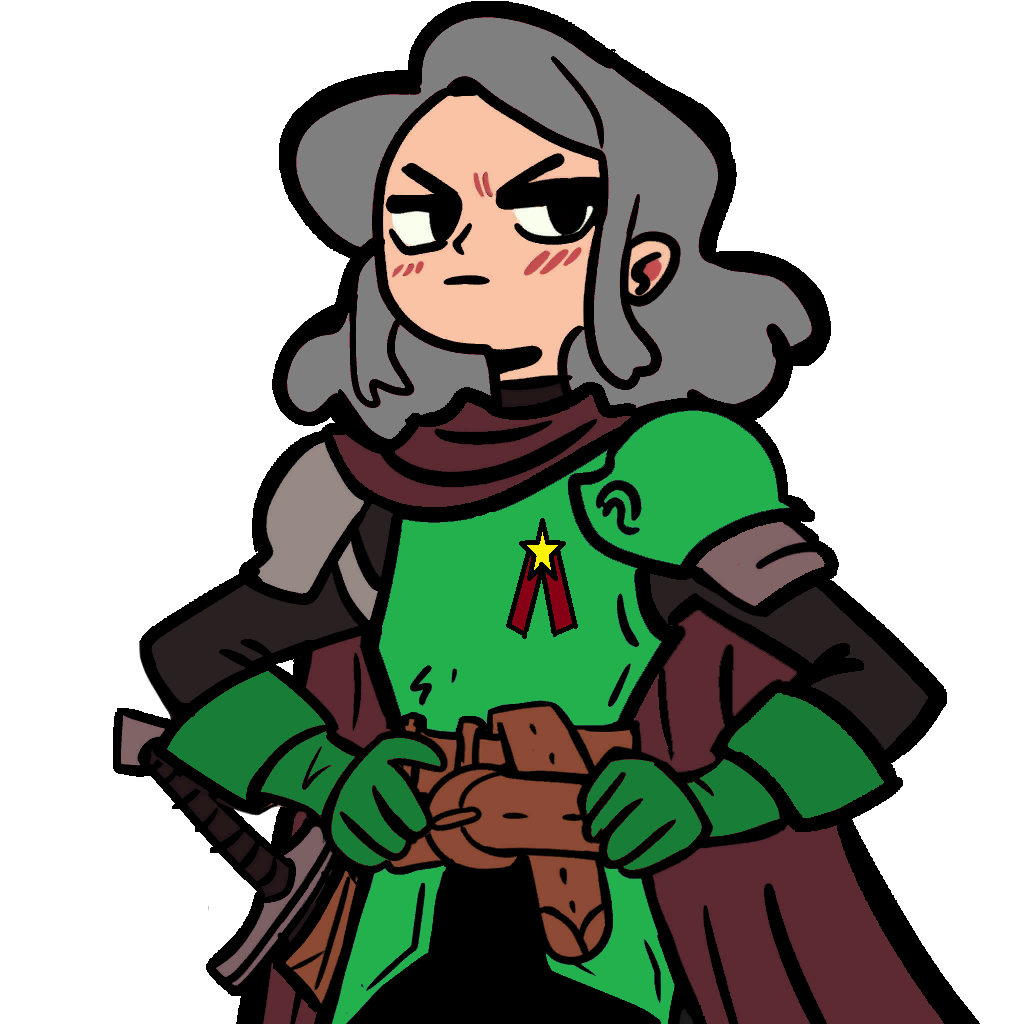
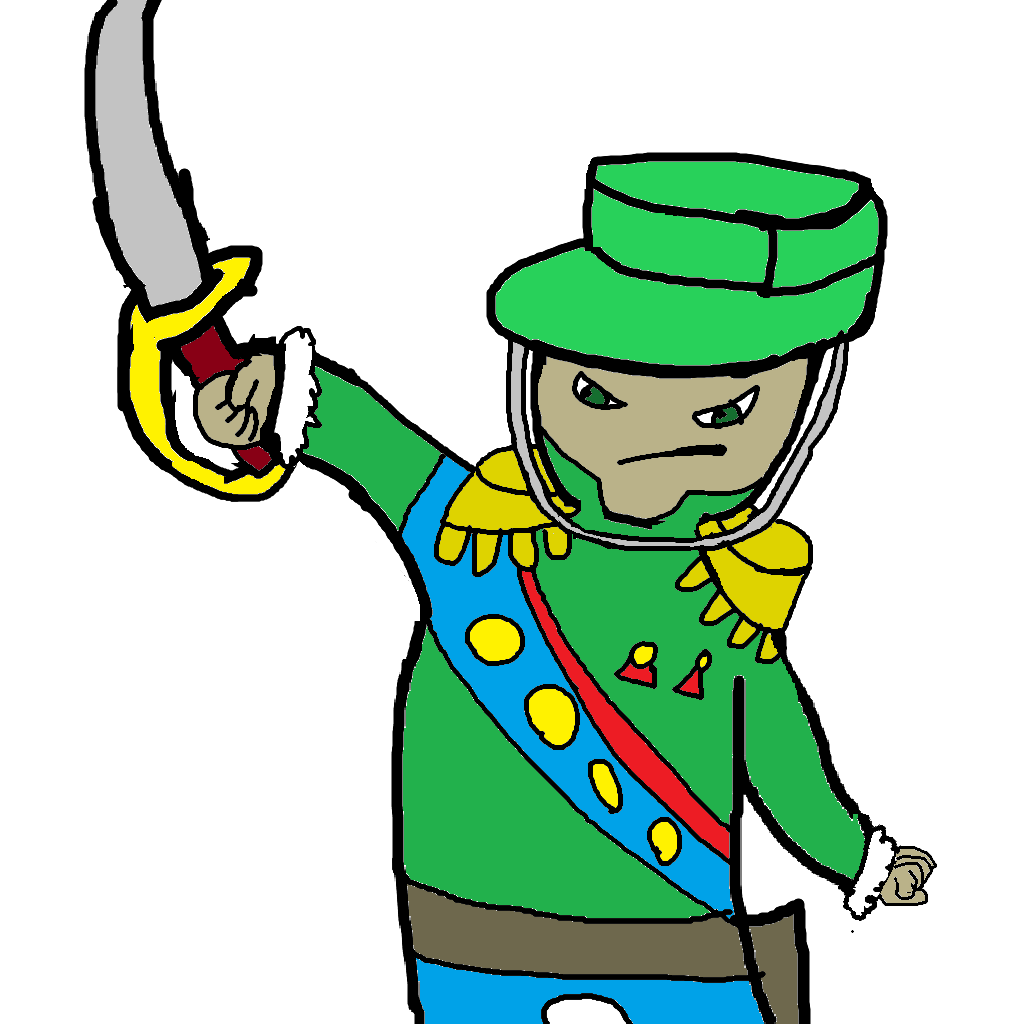
1.10.2

diff --git a/Demon Bluff Mods/Main.cs b/Demon Bluff Mods/Main.cs
@@ -662,7 +662,7 @@ public class Main : MelonMod
         parent.characterName = "Parent";
         parent.description = $"Learn what role my child is. I am unbluffable. I turn Evil if my child is Evil.";
         parent.flavorText = "\"Will do anything to protect their kid. \n Even if it means destroying the world.\"";
-        parent.hints = "";
+        parent.hints = "If I am evil, I might call my child the wrong gender.";
         parent.ifLies = "If I can, learn what bluff my child is.";
         parent.notes = "";
         parent.picking = false;
@@ -983,10 +983,10 @@ public class Main : MelonMod
         vanished.role = new Vanished();
         vanished.name = "Vanished";
         vanished.characterName = "Vanished";
-        vanished.description = $"I cast {formattedKeyText("Unknown Obstacle")} on myself.\n I silence my closest Evil neighbor.";
+        vanished.description = $"I cast {formattedKeyText("Obscure")} on myself.\n I silence my closest Evil neighbor.";
         vanished.flavorText = "\"Out of sight, out of mind is his motto.\"";
         vanished.hints = $"";
-        vanished.ifLies = $"I still cast {formattedKeyText("Unknown Obstacle")}.\n I instead silence my closest Good neighbor.";
+        vanished.ifLies = $"I still cast {formattedKeyText("Obscure")}.\n I instead silence my closest Good neighbor.";
         vanished.notes = "";
         vanished.picking = false;
         vanished.startingAlignment = EAlignment.Good;
@@ -1543,7 +1543,7 @@ public class Main : MelonMod
         star.role = new Starspawn();
         star.name = "Starspawn";
         star.characterName = "Starspawn";
-        star.description = $"3 cards at random have {formattedKeyText("Unknown Obstacle")}. \nI lie and disguise. \n <b>When Executed</b>: \nAll cards with {formattedKeyText("Unknown Obstacle")} become revealable.";
+        star.description = $"3 cards at random have {formattedKeyText("Obscure")}. \nI lie and disguise. \n <b>When Executed</b>: \nAll cards with {formattedKeyText("Obscure")} become revealable.";
         star.flavorText = "\"The being of above calls for endless night.\"";
         star.hints = "";
         star.ifLies = "";
@@ -1759,7 +1759,7 @@ public class Main : MelonMod
         enforcer.role = new Enforcer();
         enforcer.name = "Enforcer";
         enforcer.characterName = "Enforcer";
-        enforcer.description = $"<b>Game Start</b>:\nI cast {formattedKeyText("Unknown Obstacle")} on a random card.";
+        enforcer.description = $"<b>Game Start</b>:\nI cast {formattedKeyText("Obscure")} on a random card.";
         enforcer.flavorText = "\"The Bishop? Ah that guy? \n Don't try it. She won't talk.\"";
         enforcer.hints = customHint("Alignment Hint", "Mafia Member"); ;
         enforcer.ifLies = "";
@@ -2061,7 +2061,7 @@ public class Main : MelonMod
         pm.role = new PotionMaster();
         pm.name = "Brewer";
         pm.characterName = "Brewer";
-        pm.description = $"<b>Game Start</b>:\nOne card has a random status between Corrupted, {formattedKeyText("Unknown Obstacle")} and being {formattedKeyText("Mad")}.\nI lie and disguise.";
+        pm.description = $"<b>Game Start</b>:\nOne card has a random status between Corrupted, {formattedKeyText("Obscured")} and being {formattedKeyText("Mad")}.\nI lie and disguise.";
         pm.flavorText = "\"Like to mix and match ingredients. \n Results tend to favor the explosive kind.\"";
         pm.hints = customHint("Alignment Hint", "Covenant Follower");
         pm.ifLies = "";
@@ -3144,8 +3144,8 @@ public class Main : MelonMod
             case "Hexed": return "<color=#7E3A94>Hexed</color>";
             case "Starve": return "<color=#C20A0A>Starve</color>";
             case "Starved": return "<color=#C20A0A>Starved</color>";
-            case "UO": return "<color=#33327A>UO</color>";
-            case "Unknown Obstacle": return "<color=#33327A>Unknown Obstacle</color>";
+            case "Obscure": return "<color=#33327A>Obscure</color>";
+            case "Obscured": return "<color=#33327A>Obscured</color>";
             //Same as Wingidon
             case "Honest": return "<color=#7AC6FF>Honest</color>";
             case "Pure": return "<color=#7AFBFF>Pure</color>";

diff --git a/Demon Bluff Mods/God.cs b/Demon Bluff Mods/God.cs
@@ -52,6 +52,7 @@ namespace Demon_Bluff_Mods
         }
         public Il2CppSystem.Collections.Generic.List<CharacterData> GetAllData()
         {
+            MelonLogger.Msg("Getting the Datas");
             CharacterData[] allDatas = Il2CppSystem.Array.Empty<CharacterData>();
             Il2CppSystem.Collections.Generic.List<CharacterData> trueAllDatas = new();
             var loadedCharList = Resources.FindObjectsOfTypeAll(Il2CppType.Of<CharacterData>());
@@ -63,17 +64,31 @@ namespace Demon_Bluff_Mods
                     allDatas[j] = loadedCharList[j]!.Cast<CharacterData>();
                 }
             }
+            MelonLogger.Msg("Transfering the Datas");
             bool checkForPowerplay = false;
             bool checkForWing = false;
             bool checkForRiddler = false;
             for (int j = 0; j < allDatas.Length; j++)
             {
-                trueAllDatas.Add(allDatas[j]);
+                if(allDatas[j] != null)
+                    trueAllDatas.Add(allDatas[j]);
                 
             }
-           foreach(CharacterData data in trueAllDatas)
+            MelonLogger.Msg("Checking for other mods");
+            foreach (CharacterData data in trueAllDatas)
             {
-                if(data.characterId.EndsWith("_POW") && !checkForPowerplay)
+                if (data == null)
+                {
+                    MelonLogger.Warning("GetAllData: Found null CharacterData!");
+                    continue;
+                }
+
+                if (data.characterId == null)
+                {
+                    MelonLogger.Warning("GetAllData: CharacterData has null characterId!");
+                    continue;
+                }
+                if (data.characterId.EndsWith("_POW") && !checkForPowerplay)
                 {
                     checkForPowerplay = true;
                     MelonLogger.Msg("Powerplay is accounted for");
@@ -116,7 +131,7 @@ namespace Demon_Bluff_Mods
                 blacklistMinionIDs.Add("Trickster_o_scm"); // Should never be added
                 foreach (CharacterData d in allDatas)
             {
-                    if ((d.type == ECharacterType.Demon) && (d.role is not Mutant || d.role is not Delusion || d.role is not God))
+                    if ((d.type == ECharacterType.Demon) && (d.role is not Mutant && d.role is not Delusion && d.role is not God))
                     {
                         possibleDemons.Add(d);
                     }
@@ -188,9 +203,10 @@ namespace Demon_Bluff_Mods
                     MelonLogger.Msg($"{possibleVillagers.Count} villagers remaining");
                     list1.Remove(random);
                     count++;
+                    MelonLogger.Msg($"{nOfVillagers-count} villager spots remaining");
 
-                } while (count < nOfVillagers);
-                
+                } while (count < list1.Count);
+                 list1 = new();
                 foreach (Character c in currentChars)
                 {
                     list1.Add(c);

diff --git a/Demon Bluff Mods/ToolTips.cs b/Demon Bluff Mods/ToolTips.cs
@@ -124,18 +124,18 @@ namespace Demon_Bluff_Mods;
                             "<link=\"Starved\"><color=#C20A0A>Starved</color></link>"
                         );
                     }
-                    if (value.Contains("UO"))
+                    if (value.Contains("Obscure"))
                     {
                         value = value.Replace(
                             "UO",
-                            "<link=\"UO\"><color=#33327A>UO</color></link>"
+                            "<link=\"UO\"><color=#33327A>Obscure</color></link>"
                         );
                     }
-                    if (value.Contains("Unknown Obstacle"))
+                    if (value.Contains("Obscured"))
                     {
                         value = value.Replace(
                             "Unknown Obstacle",
-                            "<link=\"Unknown Obstacle\"><color=#33327A>Unknown Obstacle</color></link>"
+                            "<link=\"Unknown Obstacle\"><color=#33327A>Obscured</color></link>"
                         );
                     }
                     if (value.Contains("Badly Poison"))
@@ -262,11 +262,11 @@ namespace Demon_Bluff_Mods;
                         new Color32(194, 10, 10, 255)
                     );
                 }
-                if (linkID =="UO" || linkID =="Unknown Obstacle")
+                if (linkID == "Obscure" || linkID == "Obscured")
                 {
                     __result = new TooltipInfo(
-                        "Unknown Obstacle prevents interacting with a card.",
-                        "Unknown Obstacle",
+                        "Obscure prevents interacting with a card.",
+                        "Obscured",
                         new Color32(51, 50, 122, 255)
                     );
                 }

diff --git a/Demon Bluff Mods/Deputy.cs b/Demon Bluff Mods/Deputy.cs
@@ -75,6 +75,7 @@ public class Deputy : Role
                 else
                 {
                     line = $"There are no evils to shoot!";
+                    list2.Add(charRef);
                 }
                 
                 onActed?.Invoke(new ActedInfo(line, list2));
@@ -93,10 +94,19 @@ public class Deputy : Role
             list1 = Characters.Instance.FilterRealCharacterType(list1, ECharacterType.Minion);
             Il2CppSystem.Collections.Generic.List<Character> list2 = new();
             string line;
+            if(list1.Count == 0)
+            {
+                line = $"There are no evils to shoot!";
+                list2.Add(charRef);
+            }
+            else
+            {
                 int randomIndex = UnityEngine.Random.Range(0, list1.Count);
                 Character random = list1[randomIndex];
                  line = $"I shot #{random.id}, but the bullet missed!";
-            list2.Add(random) ;
+                  list2.Add(random) ;
+            }
+                
             onActed?.Invoke(new ActedInfo(line, list2));
 
         }

diff --git a/Demon Bluff Mods/Butcher.cs b/Demon Bluff Mods/Butcher.cs
@@ -30,29 +30,6 @@ namespace Demon_Bluff_Mods
            
           
         }
-        public override CharacterData GetBluffIfAble(Character charRef)
-        {
-            CharacterData[] allDatas = Il2CppSystem.Array.Empty<CharacterData>();
-            var loadedCharList = Resources.FindObjectsOfTypeAll(Il2CppType.Of<CharacterData>());
-            if (loadedCharList != null)
-            {
-                allDatas = new CharacterData[loadedCharList.Length];
-                for (int j = 0; j < loadedCharList.Length; j++)
-                {
-                    allDatas[j] = loadedCharList[j]!.Cast<CharacterData>();
-                }
-            }
-            int charDataId = 0;
-            for (int j = 0; j < allDatas.Length; j++)
-            {
-                if (allDatas[j].characterId == "Herbalist_POW")
-                {
-                    charDataId = j;
-                    break;
-                }
-            }
-            return allDatas[charDataId];
-        }
     }
 }
 [HarmonyPatch]

diff --git a/Demon Bluff Mods/Cerenovus.cs b/Demon Bluff Mods/Cerenovus.cs
@@ -38,29 +38,6 @@ namespace Demon_Bluff_Mods
             }
 
         }
-        public override CharacterData GetBluffIfAble(Character charRef)
-        {
-            CharacterData[] allDatas = Il2CppSystem.Array.Empty<CharacterData>();
-            var loadedCharList = Resources.FindObjectsOfTypeAll(Il2CppType.Of<CharacterData>());
-            if (loadedCharList != null)
-            {
-                allDatas = new CharacterData[loadedCharList.Length];
-                for (int j = 0; j < loadedCharList.Length; j++)
-                {
-                    allDatas[j] = loadedCharList[j]!.Cast<CharacterData>();
-                }
-            }
-            int charDataId = 0;
-            for (int j = 0; j < allDatas.Length; j++)
-            {
-                if (allDatas[j].characterId == "Herbalist_POW")
-                {
-                    charDataId = j;
-                    break;
-                }
-            }
-            return allDatas[charDataId];
-        }
 
     }
 }

diff --git a/Demon Bluff Mods/Sheriff.cs b/Demon Bluff Mods/Sheriff.cs
@@ -75,11 +75,11 @@ namespace Demon_Bluff_Mods
                 }
                 else if (random.GetRegisterAlignment() == EAlignment.Evil)
                 {
-                    info.Add($"#{random.id} seems suspicious!");
+                    info.Add($"#{random.id} seems suspicious!\n");
                 }
                 else
                 {
-                    info.Add($"#{random.id} seems innocent!");
+                    info.Add($"#{random.id} seems innocent!\n");
                 }
                     if (charRef.revealed)
                     {
